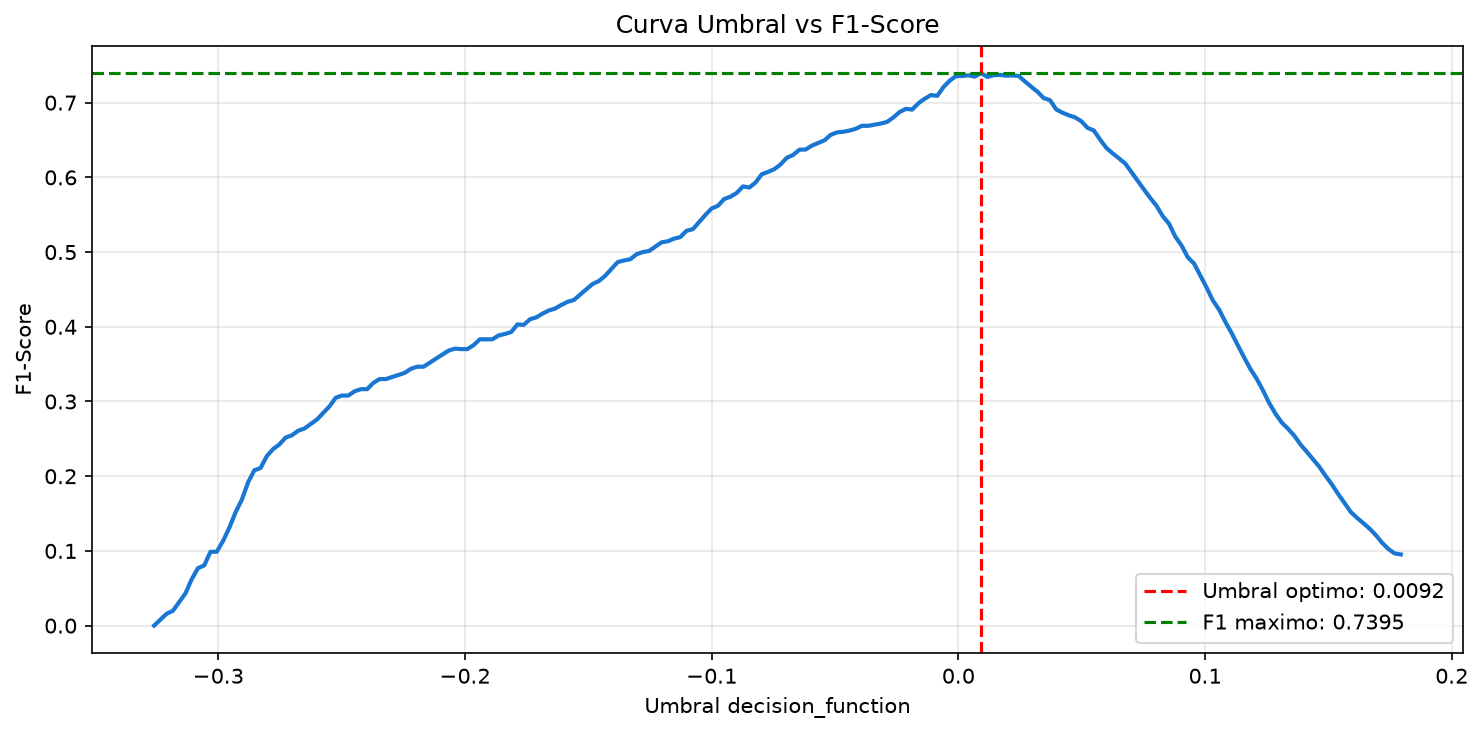
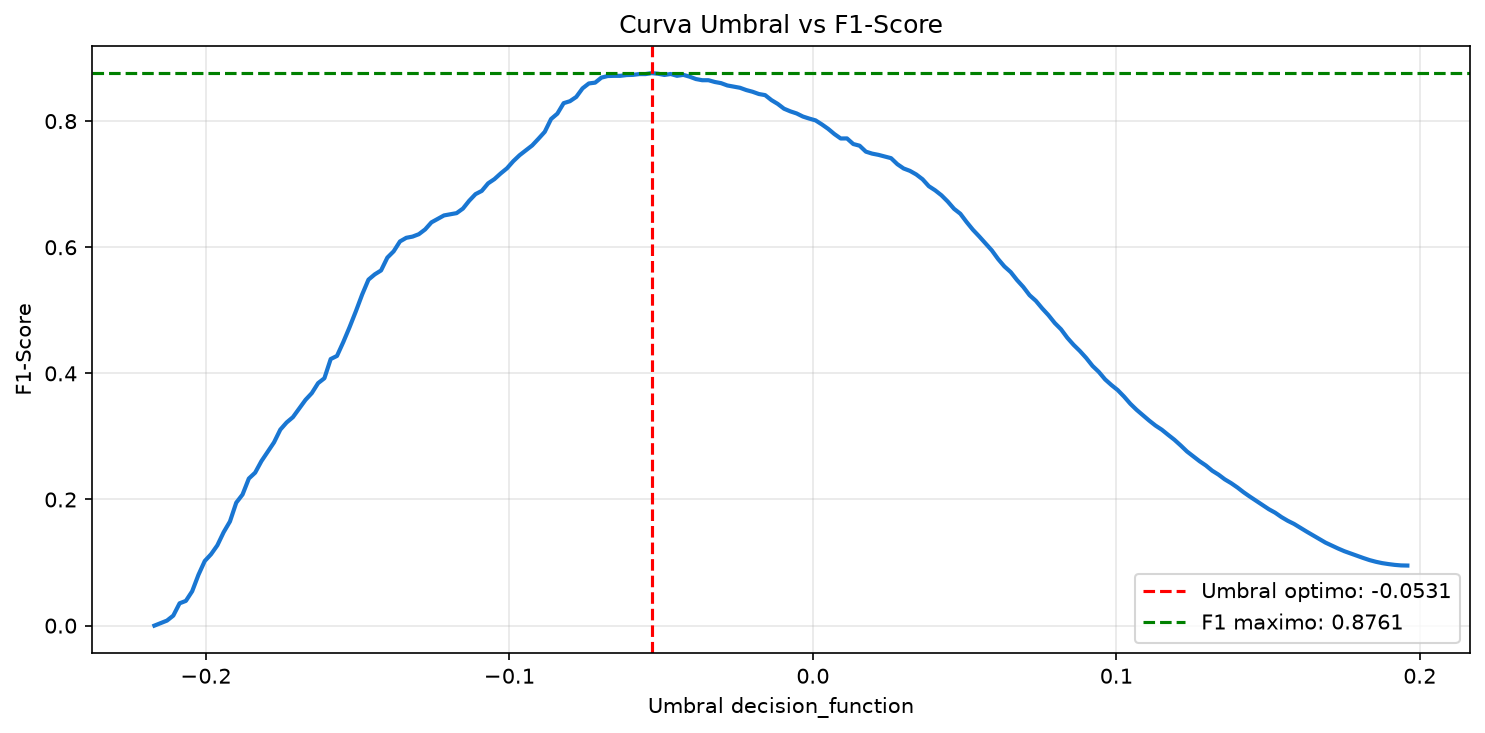
Lab3: modelo final F1=0.80 con log transform en 4 variables

diff --git a/lab3/predecir.py b/lab3/predecir.py
@@ -7,14 +7,19 @@ scaler = joblib.load('scaler.pkl')
 
 features = ['dst_port', 'bytes_sent', 'bytes_recv', 'duration_sec',
             'packets', 'ratio_bytes', 'bytes_por_segundo',
-            'bytes_total', 'protocol_enc']
+            'bytes_total', 'protocol_enc',
+            'log_bytes_sent', 'log_duration', 'packets_por_segundo']
 
 archivo = sys.argv[1] if len(sys.argv) > 1 else 'network_traffic.csv'
 df = pd.read_csv(archivo)
 
+import numpy as np
 df['ratio_bytes'] = df['bytes_sent'] / (df['bytes_recv'] + 1)
 df['bytes_por_segundo'] = df['bytes_sent'] / (df['duration_sec'] + 1)
 df['bytes_total'] = df['bytes_sent'] + df['bytes_recv']
+df['log_bytes_sent'] = np.log1p(df['bytes_sent'])
+df['log_duration'] = np.log1p(df['duration_sec'])
+df['packets_por_segundo'] = df['packets'] / (df['duration_sec'] + 1)
 df['protocol_enc'] = pd.Categorical(df['protocol']).codes
 
 X = scaler.transform(df[features])
@@ -31,4 +36,3 @@ print(f"\nTop 5 anomalias mas criticas:")
 print(anomalias.nsmallest(5, 'anomaly_score')[
     ['src_ip','dst_ip','dst_port','protocol','bytes_sent','anomaly_score','prediccion']
 ].to_string())
-